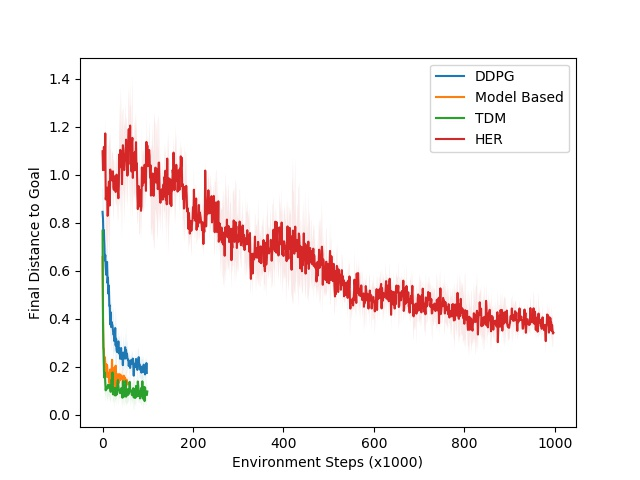
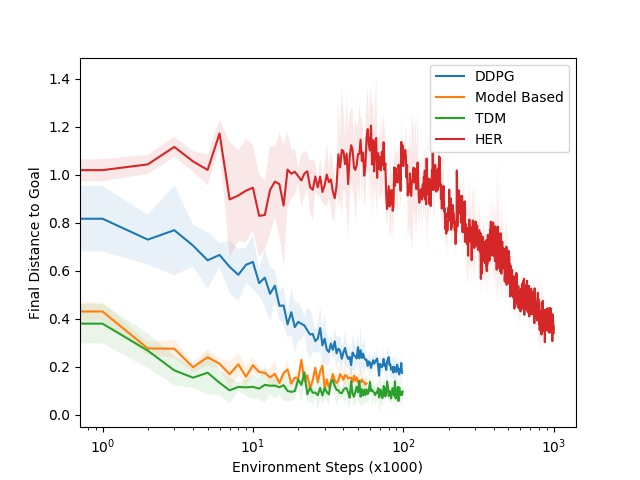
update plots

diff --git a/experiments/state_distance/iclr2018/reacher_results.py b/experiments/state_distance/iclr2018/reacher_results.py
@@ -72,6 +72,7 @@ for trials, name, key in [
     plt.plot(epochs, mean, label=name)
 
 
+plt.xscale('log')
 plt.xlabel("Environment Steps (x1000)")
 plt.ylabel("Final Distance to Goal")
 plt.legend()

diff --git a/experiments/state_distance/iclr2018/pusher_results.py b/experiments/state_distance/iclr2018/pusher_results.py
@@ -66,6 +66,7 @@ for trials, name, key in [
 
 
 
+plt.xscale('log')
 plt.xlabel("Environment Samples (x1000)")
 plt.ylabel("Final Distance to Goal")
 plt.legend()
